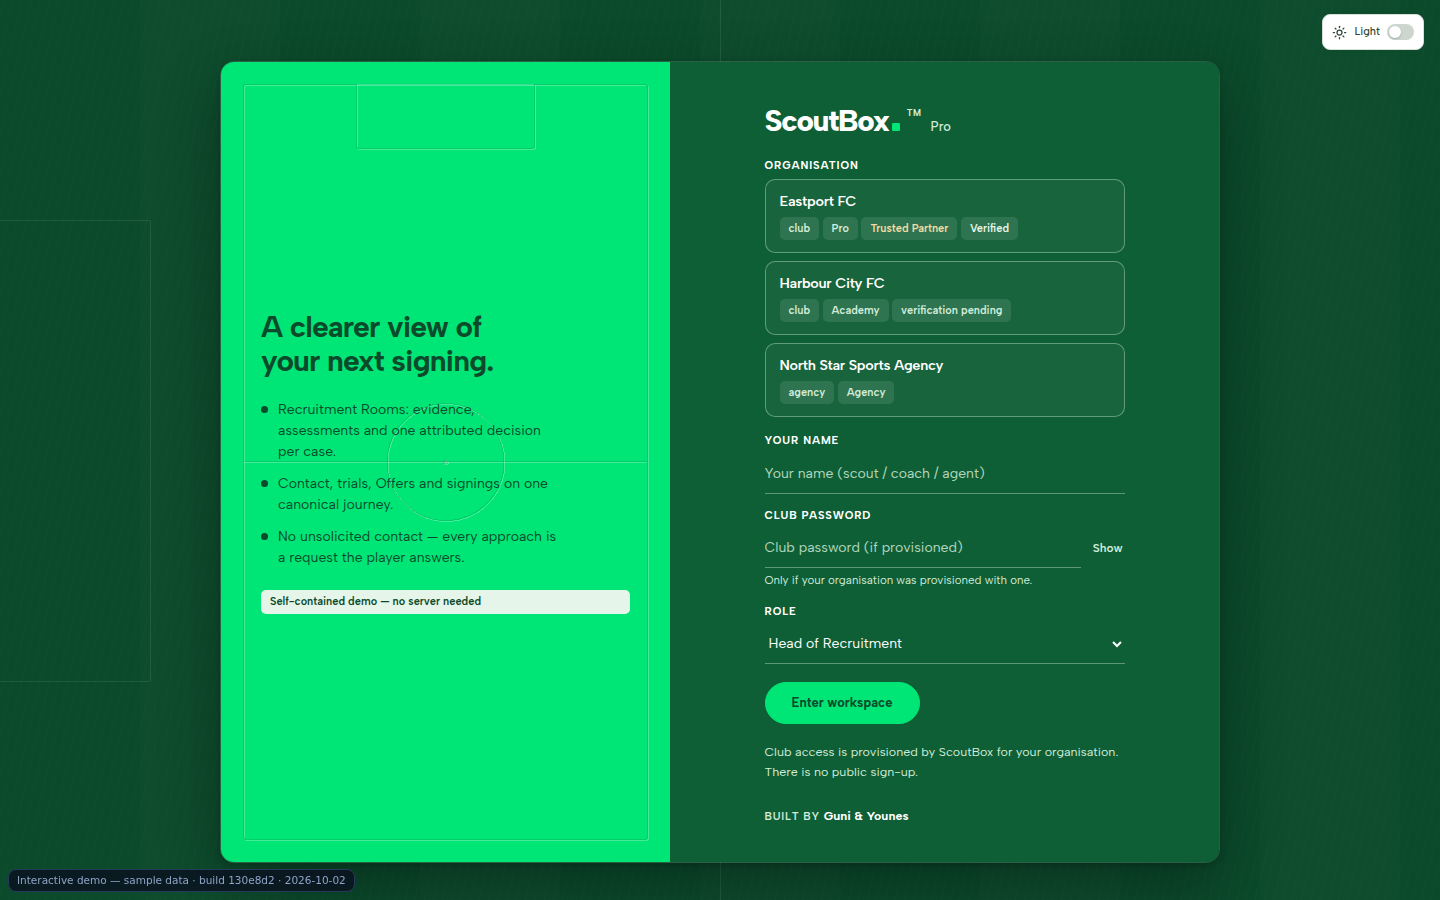
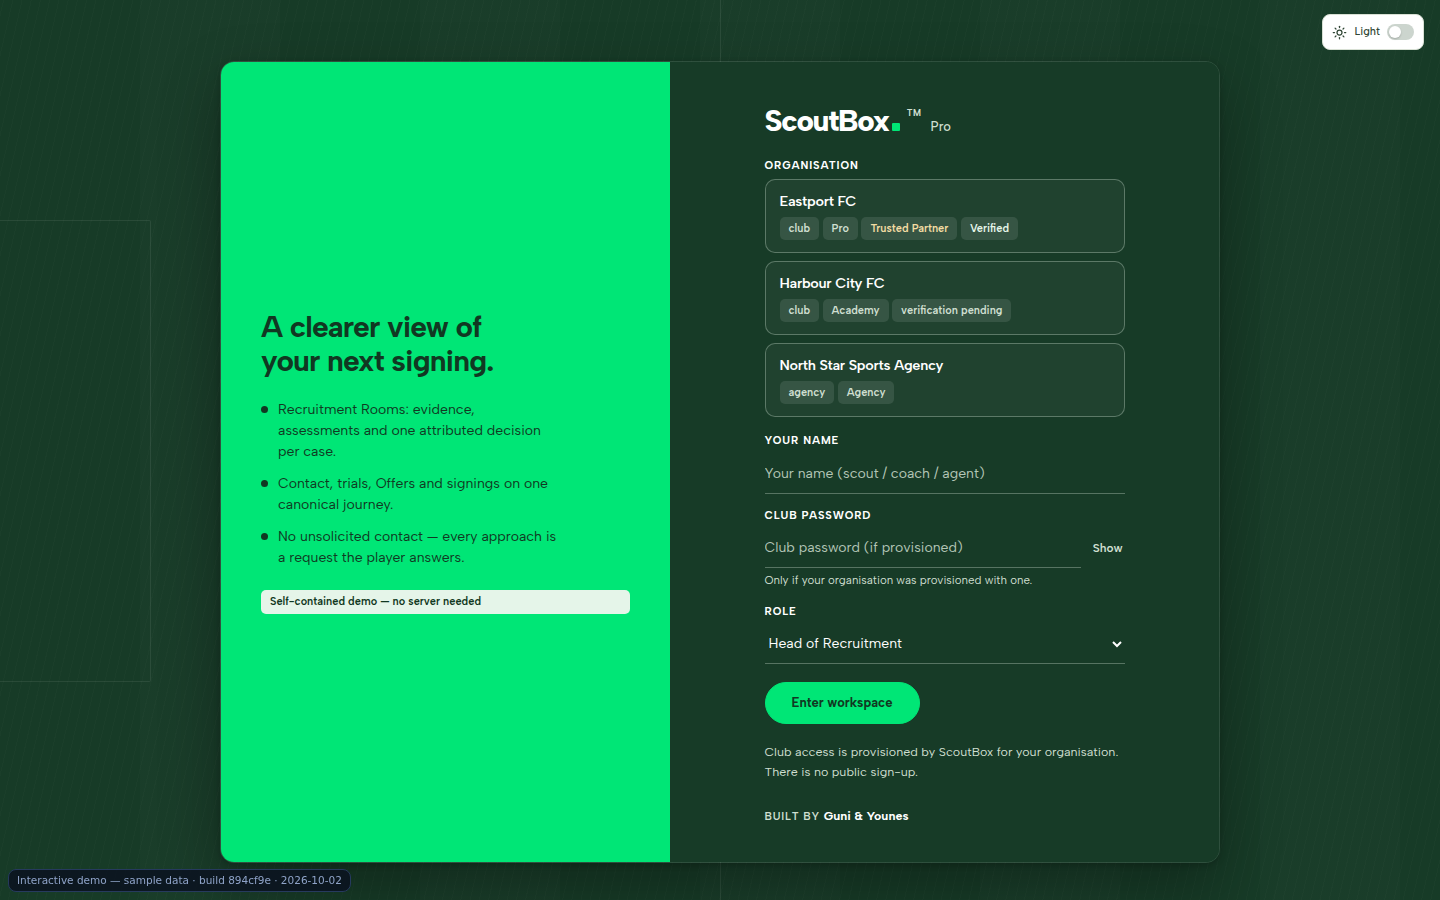
M24C.3: entry screens back on the dark-green scheme without embossing; turf on Grassroots; Agent on its own backgrounds
Pro, Trust & Safety and the Player return to the previous entry palette —
the ScoutBox green introduction beside the dark football green form on the
dark-green page with the subtle pitch behind — and the embossed pitch
lines come off the panels. Grassroots keeps that scheme and gives its
bright introduction a grass texture (blades and mowing bands in the deep
green). Agent's entry screen is built from the Agent application's own two
background colours — the sidebar surface and the workspace — so it follows
the saved cream or dark appearance, keeping the gold label on its cream
badge. The ™ stays on the wordmark. Layout, forms and behaviour unchanged.

Claude-Session: https://claude.ai/code/session_013yjAY7aDf2i5xuqFheoSu9

diff --git a/design-system/platform.css b/design-system/platform.css
@@ -517,18 +517,16 @@ video.clip { width: 100%; max-height: 300px; border-radius: 10px; background: #0
    The pitch is two pseudo-elements: pointer-events none, outside the
    accessibility tree, behind the opaque card, no animation. */
 .login.auth-page {
-  --auth-green: #00e676;        /* ScoutBox green: the introduction, the submit, focus */
-  --auth-pitch-green: #0f5f36;  /* ScoutBox pitch green — the darker green that accompanies it: the form panel */
-  --auth-turf: #0b4a2b;         /* the page behind the card, one step darker on the same hue; also text on the bright green and pressed states */
+  --auth-green: #00e676;        /* bright brand green: the introduction, the submit, focus */
+  --auth-dark: #173b27;         /* dark football green: the page and the form panel */
+  --auth-deep: #113822;         /* deep green: text on bright / pale green, pressed states */
   --auth-pale: #e5f5e9;         /* pale supporting surfaces */
-  --auth-ink: #ffffff;          /* main text on the dark greens */
-  --auth-soft: #d2ecd9;         /* supporting text on the dark greens */
-  --auth-dark: var(--auth-turf); --auth-deep: var(--auth-turf);
-  --auth-promo: var(--auth-green); --auth-panel: var(--auth-pitch-green); --auth-promo-ink: var(--auth-turf);
-  --auth-line: rgba(210, 236, 217, 0.4); --auth-line-strong: rgba(210, 236, 217, 0.65); --auth-focus: var(--auth-green);
-  --auth-pitch: rgba(255, 255, 255, 0.09); --auth-grain: rgba(255, 255, 255, 0.016); --auth-band: rgba(255, 255, 255, 0.012);
-  /* the embossed pitch on the bright-green panel: a dark groove with a light edge */
-  --auth-emboss-dark: rgba(8, 60, 32, 0.14); --auth-emboss-light: rgba(255, 255, 255, 0.26);
+  --auth-ink: #ffffff;          /* main text on dark green */
+  --auth-soft: #cfdfd0;         /* supporting text on dark green */
+  --auth-promo: var(--auth-green); --auth-panel: var(--auth-dark); --auth-promo-ink: var(--auth-deep);
+  --auth-line: rgba(207, 223, 208, 0.35); --auth-line-strong: rgba(207, 223, 208, 0.6); --auth-focus: var(--auth-green);
+  --auth-pitch: rgba(255, 255, 255, 0.08); --auth-grain: rgba(255, 255, 255, 0.016); --auth-band: rgba(255, 255, 255, 0.012);
+  --auth-card-edge: rgba(255, 255, 255, 0.1); --auth-submit: var(--auth-green); --auth-submit-ink: var(--auth-deep);
   position: relative; isolation: isolate; overflow-x: hidden;
   background-color: var(--auth-dark);
   background-image:
@@ -550,27 +548,9 @@ video.clip { width: 100%; max-height: 300px; border-radius: 10px; background: #0
 .auth-page .login-toolbar { top: 14px; right: 16px; z-index: 2; }
 .auth-card {
   position: relative; z-index: 1; display: grid; grid-template-columns: 45fr 55fr; width: 100%; max-width: 1000px;
-  border-radius: 14px; overflow: hidden; border: 1px solid rgba(255, 255, 255, 0.12); box-shadow: 0 24px 60px rgba(0, 0, 0, 0.3), 0 2px 6px rgba(0, 0, 0, 0.18);
+  border-radius: 14px; overflow: hidden; border: 1px solid var(--auth-card-edge); box-shadow: 0 24px 60px rgba(0, 0, 0, 0.3), 0 2px 6px rgba(0, 0, 0, 0.18);
 }
-.auth-promo { position: relative; isolation: isolate; overflow: hidden; background: var(--auth-promo); color: var(--auth-promo-ink); padding: 44px 40px; display: flex; flex-direction: column; justify-content: center; gap: 22px; }
-.auth-promo > * { position: relative; z-index: 1; }
-/* the pitch embossed into the bright green: boundary, halfway line, centre circle and spot (::before), one penalty area (::after) */
-.auth-promo::before {
-  content: ''; position: absolute; pointer-events: none; z-index: 0; inset: 22px 22px; border-radius: 3px;
-  border: 1px solid var(--auth-emboss-dark); box-shadow: inset 1px 1px 0 var(--auth-emboss-light), 1px 1px 0 var(--auth-emboss-light);
-  background-image:
-    linear-gradient(var(--auth-emboss-dark), var(--auth-emboss-dark)), linear-gradient(var(--auth-emboss-light), var(--auth-emboss-light)),
-    radial-gradient(circle at center, transparent 0 58px, var(--auth-emboss-dark) 58px 59px, transparent 59px),
-    radial-gradient(circle at calc(50% + 1px) calc(50% + 1px), transparent 0 58px, var(--auth-emboss-light) 58px 59px, transparent 59px),
-    radial-gradient(circle at center, var(--auth-emboss-dark) 0 2.5px, transparent 2.5px),
-    radial-gradient(circle at calc(50% + 1px) calc(50% + 1px), var(--auth-emboss-light) 0 2.5px, transparent 2.5px);
-  background-size: 100% 1px, 100% 1px, 100% 100%, 100% 100%, 100% 100%, 100% 100%;
-  background-position: 0 calc(50% - 0.5px), 0 calc(50% + 0.5px), center, center, center, center; background-repeat: no-repeat;
-}
-.auth-promo::after {
-  content: ''; position: absolute; pointer-events: none; z-index: 0; left: 30%; right: 30%; top: 22px; height: 64px; border-radius: 0 0 3px 3px;
-  border: 1px solid var(--auth-emboss-dark); border-top: 0; box-shadow: inset 1px 1px 0 var(--auth-emboss-light), 1px 1px 0 var(--auth-emboss-light);
-}
+.auth-promo { position: relative; background: var(--auth-promo); color: var(--auth-promo-ink); padding: 44px 40px; display: flex; flex-direction: column; justify-content: center; gap: 22px; }
 .auth-promo h2 { font-size: 30px; line-height: 1.12; letter-spacing: -0.9px; font-weight: 700; text-wrap: balance; color: var(--auth-promo-ink); }
 .auth-points { list-style: none; padding: 0; margin: 0; display: flex; flex-direction: column; gap: 11px; font-size: 14px; line-height: 1.5; max-width: 34ch; color: var(--auth-promo-ink); }
 .auth-points li { display: flex; gap: 10px; align-items: flex-start; }
@@ -620,7 +600,7 @@ video.clip { width: 100%; max-height: 300px; border-radius: 10px; background: #0
 .auth-form button.auth-eye:hover { filter: none; color: var(--auth-ink); }
 .auth-form button.primary, .auth-form .enter-row button.primary, .auth-form .reg-grid button.primary {
   align-self: flex-start; width: auto; max-width: none; min-height: 42px; padding: 10px 26px; border-radius: 999px;
-  background: var(--auth-green); border-color: var(--auth-green); color: var(--auth-deep); font-size: 13px; font-weight: 700; box-shadow: none; margin-top: 4px;
+  background: var(--auth-submit); border-color: var(--auth-submit); color: var(--auth-submit-ink); font-size: 13px; font-weight: 700; box-shadow: none; margin-top: 4px;
 }
 .auth-form button.primary:hover { filter: brightness(0.94); }
 .auth-form button.primary:active { background: var(--auth-deep); border-color: var(--auth-deep); color: var(--auth-ink); filter: none; }
@@ -636,6 +616,38 @@ video.clip { width: 100%; max-height: 300px; border-radius: 10px; background: #0
 .auth-form .login-signature { color: var(--auth-soft); margin-top: 8px; }
 .auth-form .login-signature span { color: var(--auth-ink); }
 .auth-form .wordmark { color: var(--auth-ink); }
+/* Grassroots: the bright introduction carries the turf — blades of grass and
+   broad mowing bands in the deep green, the same geometry as the Grassroots
+   workspace texture, no lines. */
+:root[data-app="grass"] .auth-promo {
+  background-color: var(--auth-promo);
+  background-image:
+    repeating-linear-gradient(103deg, transparent 0 3px, rgba(17, 56, 34, 0.09) 3px 4px, transparent 4px 9px),
+    repeating-linear-gradient(97deg, transparent 0 5px, rgba(17, 56, 34, 0.05) 5px 6px, transparent 6px 13px),
+    repeating-linear-gradient(90deg, transparent 0 56px, rgba(17, 56, 34, 0.06) 56px 112px);
+}
+/* Agent: the two background colours of the Agent application itself — the
+   sidebar surface for the introduction, the workspace for the form and the
+   page — so the entry screen follows the saved cream / dark appearance. */
+:root[data-app="agent"] .login.auth-page {
+  --auth-promo: var(--sb-surface); --auth-panel: var(--sb-paper); --auth-dark: var(--sb-paper);
+  --auth-ink: var(--sb-ink); --auth-soft: var(--sb-quiet); --auth-promo-ink: var(--sb-ink);
+  --auth-line: var(--sb-input-border, var(--sb-rule)); --auth-line-strong: var(--sb-quiet); --auth-card-edge: var(--sb-rule);
+  --auth-pale: var(--sb-white); --auth-deep: var(--sb-ink); --auth-submit: var(--sb-green); --auth-submit-ink: var(--sb-green-ink);
+  --auth-pitch: rgba(48, 45, 37, 0.1); --auth-grain: rgba(48, 45, 37, 0.02); --auth-band: rgba(48, 45, 37, 0.012);
+  background-color: var(--sb-paper);
+}
+:root[data-app="agent"][data-theme="dark"] .login.auth-page { --auth-pitch: rgba(255, 255, 255, 0.08); --auth-grain: rgba(255, 255, 255, 0.016); --auth-band: rgba(255, 255, 255, 0.012); }
+:root[data-app="agent"] .auth-promo { border-right: 1px solid var(--sb-rule); }
+:root[data-app="agent"] .auth-card { box-shadow: 0 24px 60px rgba(48, 45, 37, 0.14), 0 2px 6px rgba(48, 45, 37, 0.08); }
+:root[data-app="agent"][data-theme="dark"] .auth-card { box-shadow: 0 24px 60px rgba(0, 0, 0, 0.4), 0 2px 6px rgba(0, 0, 0, 0.2); }
+:root[data-app="agent"] .auth-form .org-card { background: var(--sb-white); }
+:root[data-app="agent"] .auth-form .org-card .pill, :root[data-app="agent"] .auth-form .demo-identities .pill { background: var(--sb-paper); color: var(--sb-quiet); border-color: var(--sb-rule); }
+:root[data-app="agent"] .auth-form .notice { background: var(--sb-danger-bg); border-color: var(--sb-urgent); color: var(--sb-urgent-ink); }
+:root[data-app="agent"] .auth-form select { color-scheme: light; }
+:root[data-app="agent"][data-theme="dark"] .auth-form select { color-scheme: dark; }
+:root[data-app="agent"] .auth-form select option { background: var(--sb-white); color: var(--sb-ink); }
+:root[data-app="agent"] .auth-promo .pill { background: var(--sb-paper); border-color: var(--sb-rule); color: var(--sb-quiet); }
 @media (max-width: 720px) {
   .login.auth-page { padding: 64px 12px 24px; justify-content: flex-start; }
   /* the pitch stands upright on a phone and crops naturally */
@@ -643,8 +655,9 @@ video.clip { width: 100%; max-height: 300px; border-radius: 10px; background: #0
   .login.auth-page::after { left: 28%; width: 44%; top: 54px; height: 90px; border: 1px solid var(--auth-pitch); border-top: 0; border-radius: 0 0 2px 2px; }
   .auth-card { grid-template-columns: 1fr; border-radius: 12px; }
   .auth-promo { padding: 24px 20px; gap: 14px; }
-  .auth-promo::before { inset: 14px 14px; background-image: linear-gradient(var(--auth-emboss-dark), var(--auth-emboss-dark)), linear-gradient(var(--auth-emboss-light), var(--auth-emboss-light)), radial-gradient(circle at center, transparent 0 40px, var(--auth-emboss-dark) 40px 41px, transparent 41px), radial-gradient(circle at calc(50% + 1px) calc(50% + 1px), transparent 0 40px, var(--auth-emboss-light) 40px 41px, transparent 41px), radial-gradient(circle at center, var(--auth-emboss-dark) 0 2px, transparent 2px), radial-gradient(circle at calc(50% + 1px) calc(50% + 1px), var(--auth-emboss-light) 0 2px, transparent 2px); background-size: 1px 100%, 1px 100%, 100% 100%, 100% 100%, 100% 100%, 100% 100%; background-position: calc(50% - 0.5px) 0, calc(50% + 0.5px) 0, center, center, center, center; }
-  .auth-promo::after { left: 14px; right: auto; width: 56px; top: 30%; bottom: 30%; height: auto; border: 1px solid var(--auth-emboss-dark); border-left: 0; border-radius: 0 3px 3px 0; }
+  :root[data-app="agent"] .auth-promo { border-right: 0; border-bottom: 1px solid var(--sb-rule); }
+  .auth-card { grid-template-columns: 1fr; border-radius: 12px; }
+  .auth-promo { padding: 24px 20px; gap: 14px; }
   .auth-promo h2 { font-size: 23px; }
   .auth-points { font-size: 13px; }
   .auth-form { padding: 24px 20px 22px; gap: 14px; }

diff --git a/scoutbox-player/src/theme.ts b/scoutbox-player/src/theme.ts
@@ -169,26 +169,22 @@ export const useTheme = () => useContext(ThemeContext);
  *  moment the person is signed in. */
 export const AUTH_PANEL: Palette = {
   ...palettes.dark,
-  // M24C.2 — the ScoutBox green (#00E676) and the darker ScoutBox pitch
-  // green that accompanies it (#0F5F36), one step darker on the same hue for
-  // the page and pressed states (#0B4A2B); white and #D2ECD9 for the text.
-  bg: '#0f5f36', bg2: '#0b4a2b', panel: '#0b4a2b', panel2: '#146b3f', line: 'rgba(210,236,217,0.4)',
-  text: '#ffffff', muted: '#d2ecd9',
-  accent: '#00e676', accentInk: '#0b4a2b', accentText: '#00e676', accent2: '#00e676',
-  tabActive: '#ffffff', tabActiveBg: '#0b4a2b', tabInactive: '#d2ecd9',
-  iconBg: '#0b4a2b', iconFg: '#00e676', greenBg: '#0b4a2b', greenInk: '#e5f5e9', infoBg: '#0b4a2b', infoInk: '#e5f5e9',
-  goldBg: '#0b4a2b', goldInk: '#f3dca3',
+  // M24C.3 — the entry palette: the dark football green of the Football
+  // Passport card for the surfaces, white and #CFDFD0 for the text, the
+  // bright brand green for the primary action, links and focus.
+  bg: '#173b27', bg2: '#113822', panel: '#113822', panel2: '#1d4a33', line: 'rgba(207,223,208,0.35)',
+  text: '#ffffff', muted: '#cfdfd0',
+  accent: '#00e676', accentInk: '#113822', accentText: '#00e676', accent2: '#00e676',
+  tabActive: '#ffffff', tabActiveBg: '#113822', tabInactive: '#cfdfd0',
+  iconBg: '#113822', iconFg: '#00e676', greenBg: '#113822', greenInk: '#e5f5e9', infoBg: '#113822', infoInk: '#e5f5e9',
+  goldBg: '#113822', goldInk: '#f3dca3',
   // errors keep their own hue so a refusal never reads as success
-  danger: '#ffb3a8', dangerBg: '#5a2b27', dangerInk: '#ffd4cc', knob: '#ffffff', track: 'rgba(210,236,217,0.4)',
-  frame: '#0b4a2b', frameLine: '#0b4a2b',
-  // the pitch behind the entry screen: white lines at 9%, grain under 2%
-  pitch: 'rgba(255,255,255,0.09)', grain: 'rgba(255,255,255,0.016)', band: 'rgba(255,255,255,0.012)',
+  danger: '#ffb3a8', dangerBg: '#4a2b27', dangerInk: '#ffd4cc', knob: '#ffffff', track: 'rgba(207,223,208,0.35)',
+  frame: '#173b27', frameLine: '#173b27',
+  // the pitch behind the entry screen: white lines at 8%, grain under 2%
+  pitch: 'rgba(255,255,255,0.08)', grain: 'rgba(255,255,255,0.016)', band: 'rgba(255,255,255,0.012)',
 };
-export const AUTH_PAGE = {
-  page: '#0b4a2b', panel: '#0f5f36', green: '#00e676', ink: '#0b4a2b', white: '#ffffff', soft: '#d2ecd9', pale: '#e5f5e9', panelLine: 'rgba(255,255,255,0.14)',
-  // the pitch embossed into the bright green: a dark groove with a light edge
-  embossDark: 'rgba(8,60,32,0.14)', embossLight: 'rgba(255,255,255,0.26)',
-} as const;
+export const AUTH_PAGE = { page: '#173b27', panel: '#173b27', green: '#00e676', ink: '#113822', white: '#ffffff', soft: '#cfdfd0', pale: '#e5f5e9', panelLine: 'rgba(255,255,255,0.14)' } as const;
 
 export function ThemeOverride({ colors, children }: { colors: Palette; children: ReactNode }) {
   const base = useContext(ThemeContext);

diff --git a/scoutbox-player/src/app/onboarding.tsx b/scoutbox-player/src/app/onboarding.tsx
@@ -47,32 +47,6 @@ function RoleCard({ icon, title, subtitle, accent, onPress }: {
   );
 }
 
-/** M24C.2 — the pitch embossed into the bright-green introduction: each
- *  line is a dark groove with a light edge one pixel beside it. Plain Views,
- *  so iOS, Android and the web draw it alike; behind the copy, never in front
- *  of a tap, hidden from assistive technology. */
-function EmbossedPitch() {
-  const dark = AUTH_PAGE.embossDark, light = AUTH_PAGE.embossLight;
-  const line = (extra: object) => [{ position: 'absolute' as const }, extra];
-  return (
-    <View pointerEvents="none" accessibilityElementsHidden importantForAccessibility="no-hide-descendants" aria-hidden style={[StyleSheet.absoluteFill, { overflow: 'hidden', zIndex: 0 }]}>
-      {/* boundary: light edge then the dark groove */}
-      <View style={line({ top: 13, left: 13, right: 11, bottom: 11, borderWidth: 1, borderColor: light, borderRadius: 3 })} />
-      <View style={line({ top: 12, left: 12, right: 12, bottom: 12, borderWidth: 1, borderColor: dark, borderRadius: 3 })} />
-      {/* halfway line */}
-      <View style={line({ left: 12, right: 12, top: '50%', marginTop: 0.5, borderTopWidth: 1, borderColor: light })} />
-      <View style={line({ left: 12, right: 12, top: '50%', marginTop: -0.5, borderTopWidth: 1, borderColor: dark })} />
-      {/* centre circle and spot */}
-      <View style={line({ left: '50%', top: '50%', width: 60, height: 60, marginLeft: -29, marginTop: -29, borderRadius: 30, borderWidth: 1, borderColor: light })} />
-      <View style={line({ left: '50%', top: '50%', width: 60, height: 60, marginLeft: -30, marginTop: -30, borderRadius: 30, borderWidth: 1, borderColor: dark })} />
-      <View style={line({ left: '50%', top: '50%', width: 4, height: 4, marginLeft: -2, marginTop: -2, borderRadius: 2, backgroundColor: dark })} />
-      {/* one penalty area, left end */}
-      <View style={line({ left: 13, top: '30%', bottom: '30%', width: 44, borderWidth: 1, borderLeftWidth: 0, borderColor: light, borderTopRightRadius: 3, borderBottomRightRadius: 3 })} />
-      <View style={line({ left: 12, top: '30%', bottom: '30%', width: 44, borderWidth: 1, borderLeftWidth: 0, borderColor: dark, borderTopRightRadius: 3, borderBottomRightRadius: 3 })} />
-    </View>
-  );
-}
-
 function StepDots({ current }: { current: number }) {
   const colors = useColors();
   const styles = useStyles(makeStyles);
@@ -392,8 +366,7 @@ export default function Onboarding() {
 
         {entry && (
           <View style={styles.intro} testID="auth-intro">
-            <EmbossedPitch />
-            <Text style={[styles.introTitle, { zIndex: 1 }]}>Your football. Your next opportunity.</Text>
+            <Text style={styles.introTitle}>Your football. Your next opportunity.</Text>
             <View style={{ gap: 6 }}>
               {[
                 'A verified Football Passport that clubs can read.',

diff --git a/M24C_PLAYER_MOBILE_AND_AUTH.md b/M24C_PLAYER_MOBILE_AND_AUTH.md
@@ -90,26 +90,24 @@ values; colours come from the active palette so light and dark both match):
 ## 3. Authentication (all applications)
 
 `design-system/AuthShell.tsx` + the `.login.auth-page` block in
-`design-system/platform.css`. **M24C.2 palette** (the `--auth-*` tokens;
-`AUTH_PANEL` / `AUTH_PAGE` on the Player) — ScoutBox's own pair of greens,
-chosen to stand apart from any other brand's green-on-black: the ScoutBox
-green `#00E676` for the introduction, the submit, links and focus, and the
-darker **ScoutBox pitch green `#0F5F36`** that accompanies it for the form
-panel, with the page one step darker on the same hue (`#0B4A2B`, also the
-text on bright green and the pressed state). Pale supporting surfaces are
-`#E5F5E9`; text on the dark greens is white with `#D2ECD9` for supporting
-copy and placeholders; underlines are `#D2ECD9` at 40 %; focus is `#00E676`.
-The introduction carries the pitch **embossed** into the bright green
-(boundary, halfway line, centre circle and spot, one penalty area: a dark
-groove `rgba(8,60,32,.14)` with a light edge `rgba(255,255,255,.26)` one
-pixel beside it — CSS pseudo-elements on the portals, plain Views on the
-Player). Behind the card the same motif in white at 9 % with grain and
-mowing bands under 2 %, oversized on desktop, upright and cropped on a
-phone, never in front of a tap or in the accessibility tree, never moving.
-The wordmark reads **ScoutBox▪™** on every entry screen (`<sup class="tm">`
-/ a small `TM` Text, labelled "trademark"). One centred card of at most
-1000 px (introduction ≈45 %, form ≈55 %, 14 px radius, soft shadow, 44 px
-padding, form content 360 px wide), the product identity beside the
+`design-system/platform.css`. **M24C.3 palette** (the `--auth-*` tokens;
+`AUTH_PANEL` / `AUTH_PAGE` on the Player): the page and the form are the
+dark football green `#173B27`, the introduction is the ScoutBox green
+`#00E676` with `#113822` text, the submit is `#00E676` with `#113822` text
+(pressed `#113822`), pale supporting surfaces are `#E5F5E9`, text on dark
+green is white with `#CFDFD0` for supporting copy and placeholders,
+underlines are `#CFDFD0` at 35 %, focus is `#00E676`. Behind the card the
+pitch motif in white at 8 % with grain and mowing bands under 2 %, oversized
+on desktop, upright and cropped on a phone, never in front of a tap or in
+the accessibility tree, never moving; no embossing on the panels.
+**Grassroots** gives its bright introduction the turf — blades and mowing
+bands in the deep green, no lines. **Agent** builds its entry screen from
+the Agent application's own two backgrounds — the sidebar surface for the
+introduction and the workspace for the form and the page — so it follows the
+saved cream / dark appearance, with the gold label on its cream badge. The
+wordmark reads **ScoutBox▪™** on every entry screen. One centred card of at
+most 1000 px (introduction ≈45 %, form ≈55 %, 14 px radius, soft shadow,
+44 px padding, form content 360 px wide), the product identity beside the
 wordmark, `AuthTabs` only where sign-up exists, `AuthField` labelled
 underlined inputs, `PasswordInput` with show / hide, and the compact rounded
 submit. Under 720 px the panels stack. The theme toggle stays on the page (its stored choice is restored in
